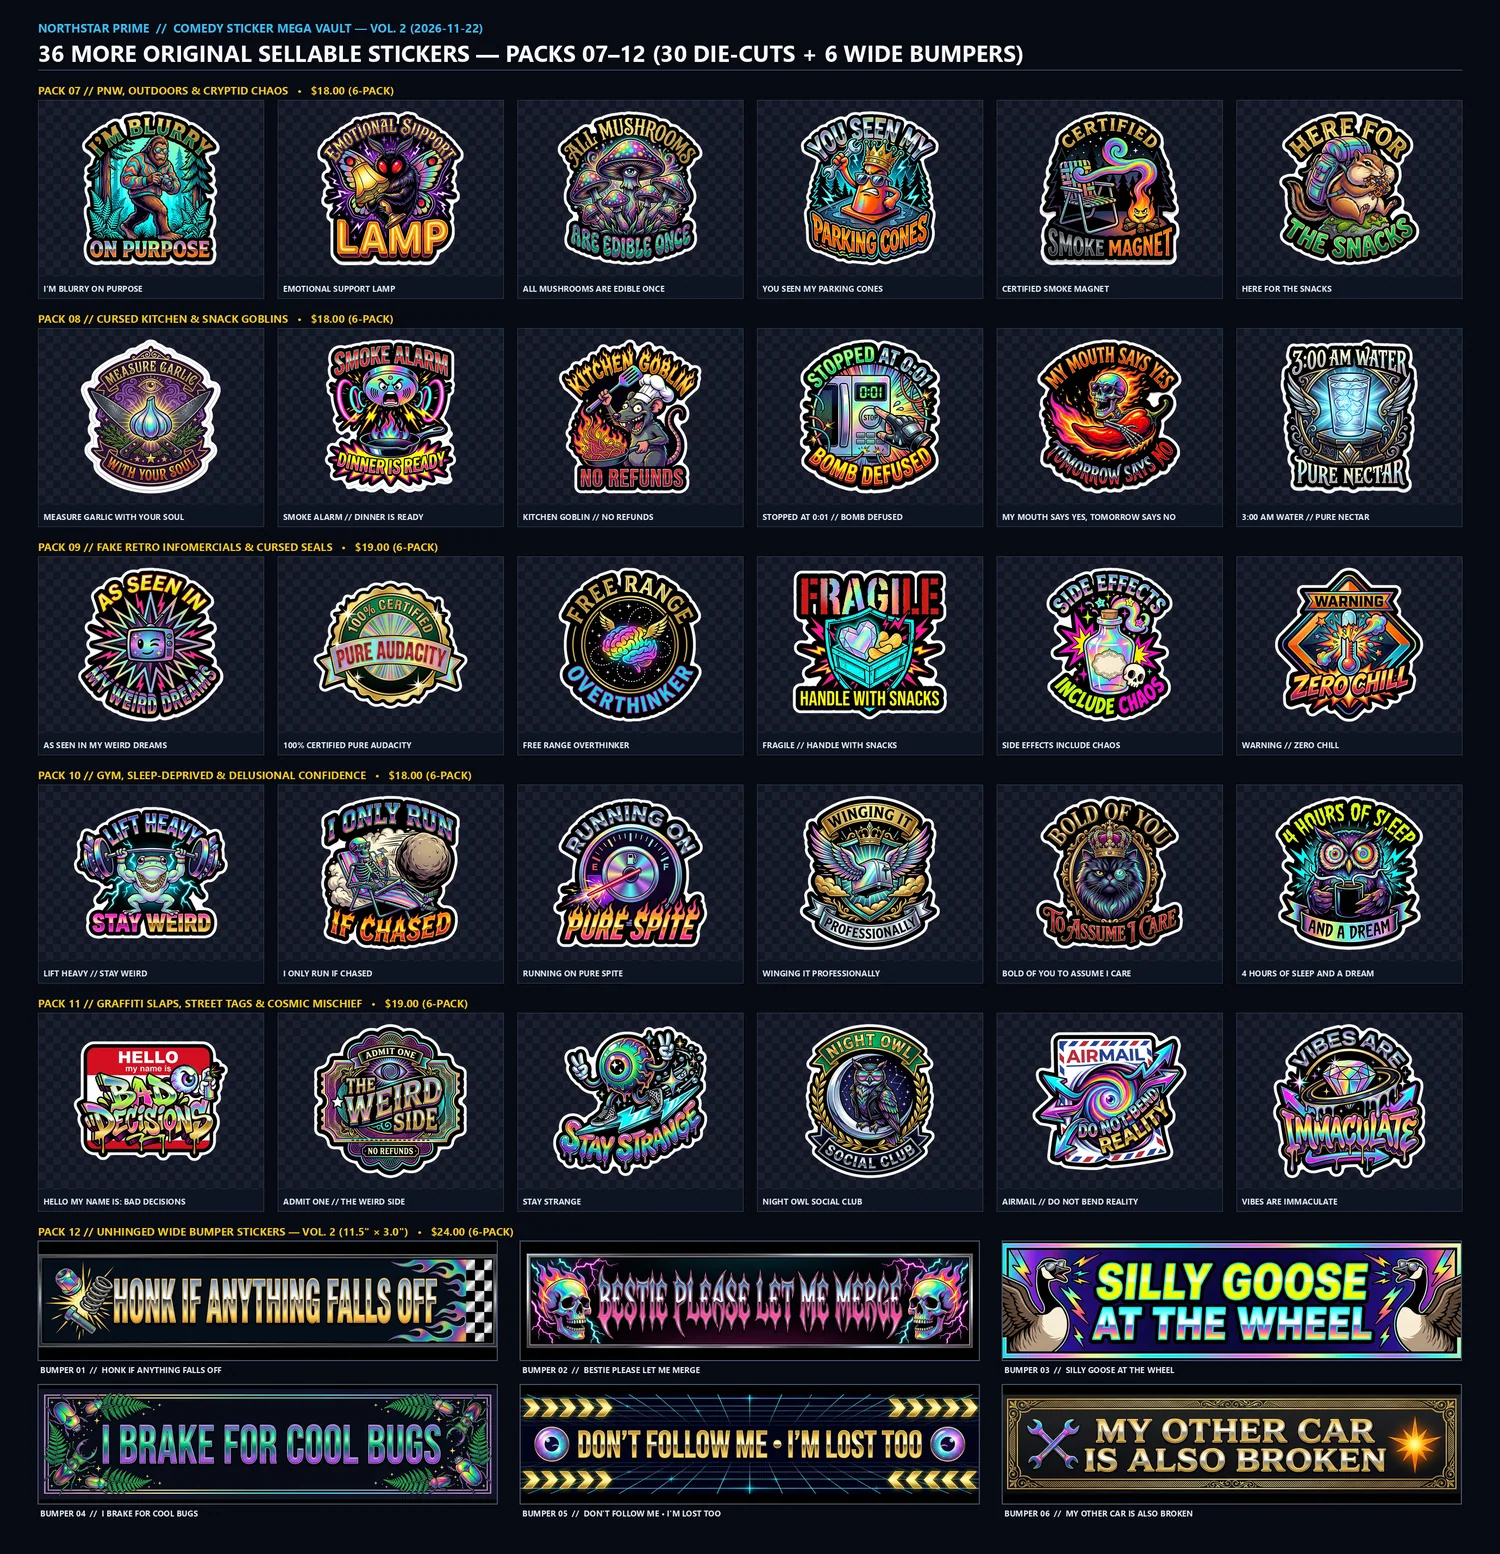
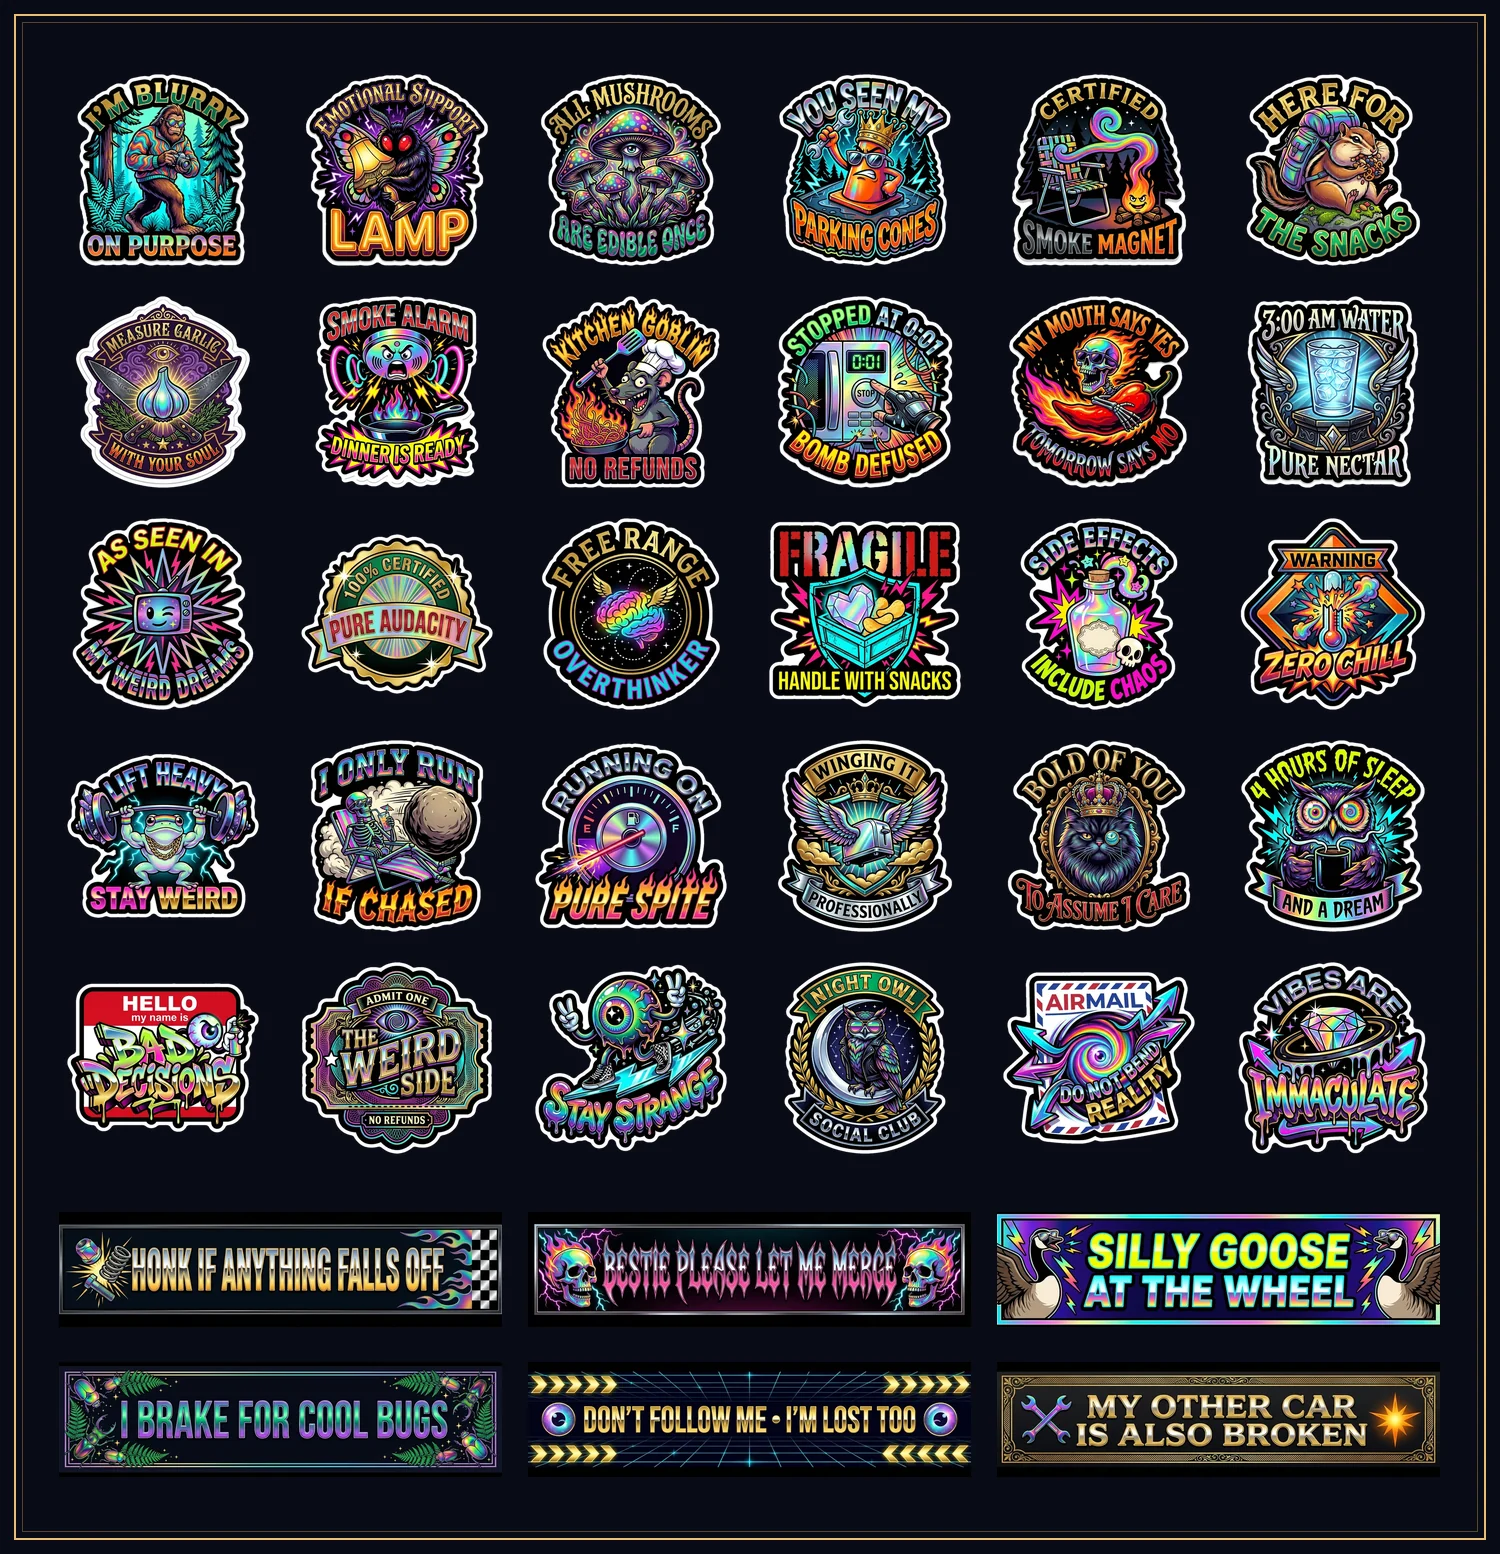
fix(stickerforge,store): Comedy Vault buyer-facing fixes: clean volume walls, true proof-sheet count, drop stray pack price
- Replace the four volume wall images with clean grids (same names, same 1500x1554 size). The old ones printed
  pack prices of $18, $19 and $24 beside a $12 volume, plus internal proof headers and a date.
- /store/ bundle card: "28 proof sheets" -> "4 full-wall proof sheets" (each ZIP holds one), and
  "810.6 MB" -> "about 850 MB" (the four ZIPs total 850,025,668 bytes).
- catalog.json: remove "price_usd": 18.0 from the 24 pack entries; no such offer exists. The five checkout prices stay.

Evidence: board receipts/claude_review_20261123/20261123T1530Z-claude-live-POSTMERGE-CHECK-pr372-comedy-sticker-vault.md

diff --git a/store/index.html b/store/index.html
@@ -118,7 +118,7 @@
           <div class="card-body">
             <p class="eyebrow">Best Value &middot; Gumroad Instant 4-ZIP Download &middot; USD $36 (Save $12)</p>
             <h3>Complete 144-Sticker Comedy Mega Bundle (Vols. 1&ndash;4)</h3>
-            <p>All four 300-DPI master volumes (810.6 MB across 4 ZIPs): 120 transparent kiss-cut PNGs, 24 wide bumpers with trim &amp; bleed, 24 ready-to-press 12&times;18 gang sheets, and 28 proof sheets.</p>
+            <p>All four 300-DPI master volumes (about 850 MB across 4 ZIPs): 120 transparent kiss-cut PNGs, 24 wide bumpers with trim &amp; bleed, 24 ready-to-press 12&times;18 gang sheets, and 4 full-wall proof sheets.</p>
             <span class="go">Buy Complete 144 Bundle ($36) <span aria-hidden="true">&rarr;</span></span>
           </div>
         </a>
